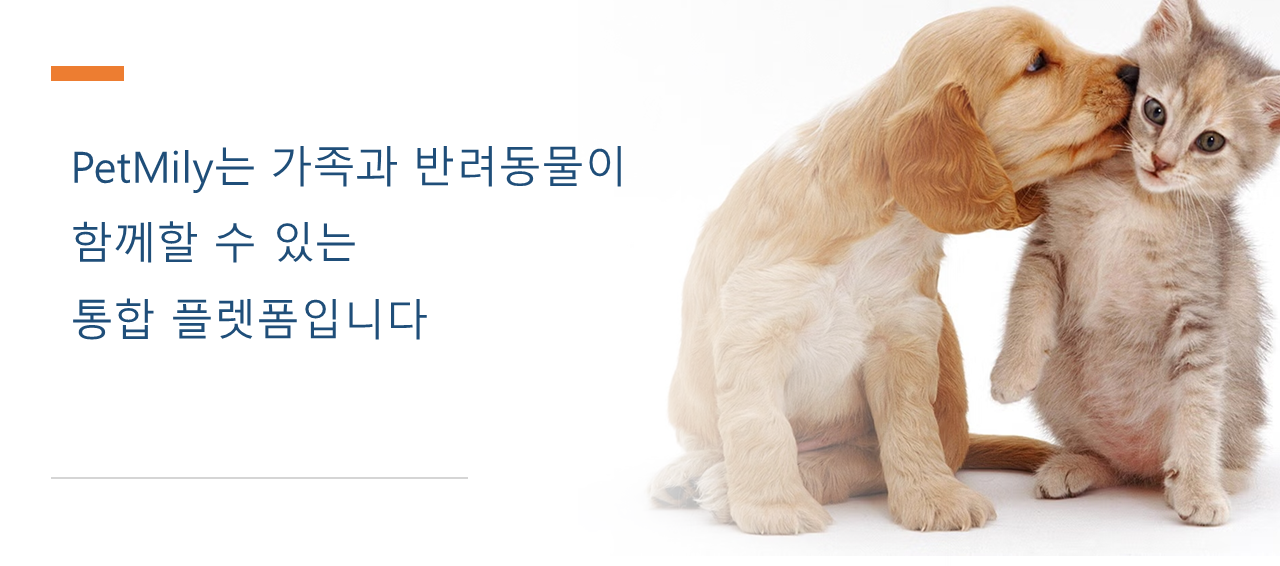
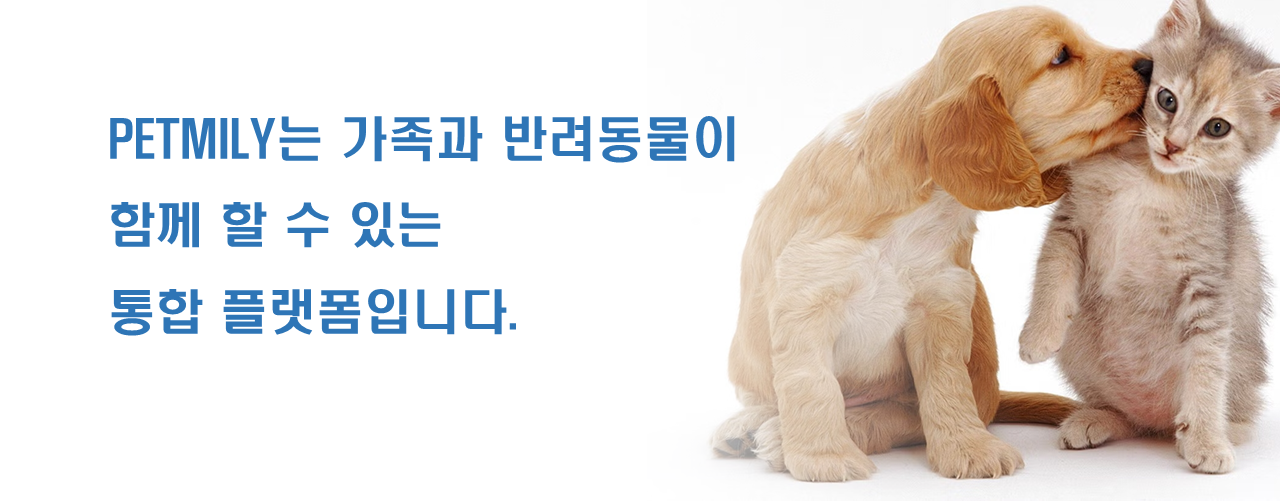
예약자명 오류 수정 및 홈화면 디자인 수정

diff --git a/src/main/java/com/sist/dao/AdminDAO.java b/src/main/java/com/sist/dao/AdminDAO.java
@@ -31,9 +31,9 @@ public class AdminDAO {
 		try
 		{
 			String sql="SELECT /*+ INDEX_DESC(r PK_RESERVATION) */ "
-					+ "res_id, res_state, TO_CHAR(res_date, 'YYYY-MM-DD HH24:MI:ss'), res_msg, r.com_id, c.COM_NAME, c.POSTER, c.address, c.phone,r.user_id,res_date-sysdate "
-					+ "FROM RESERVATION r, COMPANY c "
-					+ "WHERE c.COM_ID = r.COM_ID";
+					+ "res_id, res_state, TO_CHAR(res_date, 'YYYY-MM-DD HH24:MI:ss'), res_msg, r.com_id, c.COM_NAME, c.POSTER, c.address, c.phone,r.user_id,res_date-sysdate,m.user_name "
+					+ "FROM RESERVATION r, COMPANY c, MEMBER m "
+					+ "WHERE c.COM_ID = r.COM_ID AND r.user_id=m.user_id";
 			ps=conn.prepareStatement(sql);
 			rs=ps.executeQuery();
 			while(rs.next())
@@ -52,6 +52,7 @@ public class AdminDAO {
 				vo.setUser_id(rs.getString(10));
 				double tmp = rs.getDouble(11);
 				vo.setTimeOver(tmp>0.0?false:true);
+				vo.setUser_name(rs.getString(12));
 				list.add(vo);
 			}
 			rs.close();

diff --git a/src/main/java/com/sist/vo/ReserveVO.java b/src/main/java/com/sist/vo/ReserveVO.java
@@ -8,7 +8,7 @@ import java.util.*;
 
 // 예약 정보
 public class ReserveVO {
-	private String res_state,res_msg,res_img,user_id,poster, dbday, address, phone, com_name, pet_name;
+	private String res_state,res_msg,res_img,user_id,poster, dbday, address, phone, com_name, pet_name,user_name;
 	private int res_id,com_id,pet_id;
 	private Date res_date;
 	private boolean timeOver;
